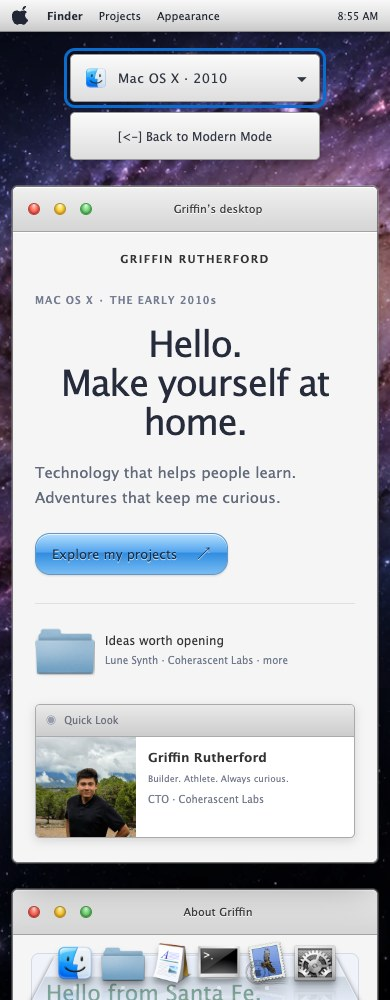
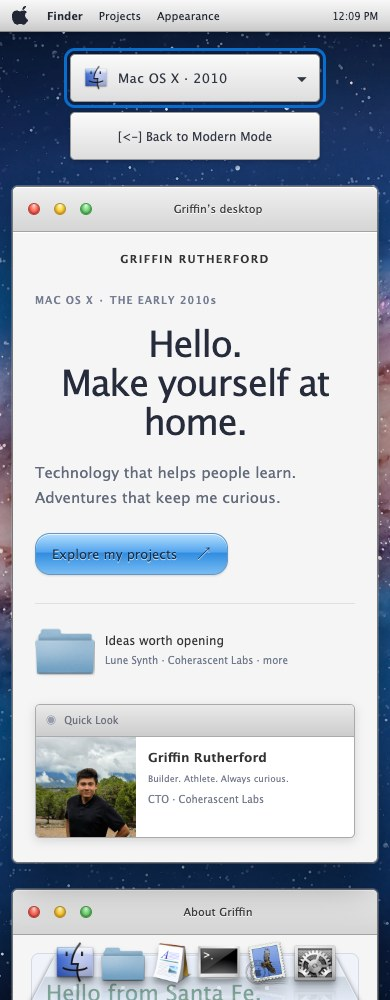
Replace generated Mac artwork with authentic Apple assets

Changed region(s): [[0.0, 0.0, 1.0, 1.0], [0.1231, 0.93, 0.2462, 0.992]]

diff --git a/images/macos-review/gallery.html b/images/macos-review/gallery.html
@@ -1,1 +1,1 @@
-<!doctype html><html lang="en"><meta charset="utf-8"><meta name="viewport" content="width=device-width,initial-scale=1"><title>Mac themes · visual review</title><style>body{margin:0;padding:32px;font:15px/1.6 system-ui;background:#edf0f7;color:#293247}h1{font-size:28px}main{display:grid;grid-template-columns:repeat(auto-fit,minmax(290px,1fr));gap:24px}article{background:white;border:1px solid #d4dbea;border-radius:12px;padding:16px}img{width:100%;height:310px;object-fit:contain;background:#e6eaf2}h2{font-size:15px}small{color:#556176}a{color:#1267b4}</style><h1>Two Mac desktops · 28 reviewed views</h1><p>Desktop, phone, tablet, menus, Finder views, Dock magnification, and short landscape. Scores are subjective design assessments. Open any screenshot for its full resolution.</p><p><a href="../../90s.html?theme=macos">macOS Modern</a> · <a href="../../90s.html?theme=mac2010">Mac OS X · 2010</a></p><main><article><a href="mac2010-desktop-1440.jpg" target="_blank"><img src="mac2010-desktop-1440.jpg" loading="lazy" alt="mac2010 desktop 1440"></a><h2>mac2010 desktop 1440</h2><p>Aesthetics 96/100 · Interpretability 96/100</p><small>Balanced desktop/tablet composition with Finder favorites, Quick Look portrait, and cohesive generated wallpaper.</small></article><article><a href="mac2010-desktop-320.jpg" target="_blank"><img src="mac2010-desktop-320.jpg" loading="lazy" alt="mac2010 desktop 320"></a><h2>mac2010 desktop 320</h2><p>Aesthetics 92/100 · Interpretability 94/100</p><small>Narrow phone: readable wrapped copy, three traffic lights, current portrait, and six Dock targets remain inside the viewport.</small></article><article><a href="mac2010-desktop-390.jpg" target="_blank"><img src="mac2010-desktop-390.jpg" loading="lazy" alt="mac2010 desktop 390"></a><h2>mac2010 desktop 390</h2><p>Aesthetics 94/100 · Interpretability 95/100</p><small>Phone: clean hierarchy, distinct era chrome, current portrait, and a compact Dock.</small></article><article><a href="mac2010-desktop-768.jpg" target="_blank"><img src="mac2010-desktop-768.jpg" loading="lazy" alt="mac2010 desktop 768"></a><h2>mac2010 desktop 768</h2><p>Aesthetics 96/100 · Interpretability 96/100</p><small>Balanced desktop/tablet composition with Finder favorites, Quick Look portrait, and cohesive generated wallpaper.</small></article><article><a href="mac2010-dock-hover.jpg" target="_blank"><img src="mac2010-dock-hover.jpg" loading="lazy" alt="mac2010 dock hover"></a><h2>mac2010 dock hover</h2><p>Aesthetics 96/100 · Interpretability 96/100</p><small>Clear hover label and controlled neighboring magnification; reflective shelf distinguishes the classic era.</small></article><article><a href="mac2010-landscape.jpg" target="_blank"><img src="mac2010-landscape.jpg" loading="lazy" alt="mac2010 landscape"></a><h2>mac2010 landscape</h2><p>Aesthetics 92/100 · Interpretability 94/100</p><small>Menu and Dock fit a short landscape viewport; primary controls remain reachable.</small></article><article><a href="mac2010-menu-1440.jpg" target="_blank"><img src="mac2010-menu-1440.jpg" loading="lazy" alt="mac2010 menu 1440"></a><h2>mac2010 menu 1440</h2><p>Aesthetics 95/100 · Interpretability 97/100</p><small>Readable native-style menu, clear actions, current headshot, and no clipping.</small></article><article><a href="mac2010-menu-390.jpg" target="_blank"><img src="mac2010-menu-390.jpg" loading="lazy" alt="mac2010 menu 390"></a><h2>mac2010 menu 390</h2><p>Aesthetics 95/100 · Interpretability 97/100</p><small>Readable native-style menu, clear actions, current headshot, and no clipping.</small></article><article><a href="mac2010-projects-1440.jpg" target="_blank"><img src="mac2010-projects-1440.jpg" loading="lazy" alt="mac2010 projects 1440"></a><h2>mac2010 projects 1440</h2><p>Aesthetics 94/100 · Interpretability 97/100</p><small>Legible Finder-style file rows, era-specific icons, search, and item count.</small></article><article><a href="mac2010-projects-390.jpg" target="_blank"><img src="mac2010-projects-390.jpg" loading="lazy" alt="mac2010 projects 390"></a><h2>mac2010 projects 390</h2><p>Aesthetics 94/100 · Interpretability 97/100</p><small>Legible Finder-style file rows, era-specific icons, search, and item count.</small></article><article><a href="mac2010-resume-1440.jpg" target="_blank"><img src="mac2010-resume-1440.jpg" loading="lazy" alt="mac2010 resume 1440"></a><h2>mac2010 resume 1440</h2><p>Aesthetics 94/100 · Interpretability 96/100</p><small>Shared experience records are readable with contemporary cards or classic alternating list rows.</small></article><article><a href="mac2010-resume-390.jpg" target="_blank"><img src="mac2010-resume-390.jpg" loading="lazy" alt="mac2010 resume 390"></a><h2>mac2010 resume 390</h2><p>Aesthetics 94/100 · Interpretability 96/100</p><small>Shared experience records are readable with contemporary cards or classic alternating list rows.</small></article><article><a href="mac2010-skills-1440.jpg" target="_blank"><img src="mac2010-skills-1440.jpg" loading="lazy" alt="mac2010 skills 1440"></a><h2>mac2010 skills 1440</h2><p>Aesthetics 93/100 · Interpretability 95/100</p><small>Readable skill labels, matching blue progress bars, consistent window controls, and Dock navigation.</small></article><article><a href="mac2010-skills-390.jpg" target="_blank"><img src="mac2010-skills-390.jpg" loading="lazy" alt="mac2010 skills 390"></a><h2>mac2010 skills 390</h2><p>Aesthetics 93/100 · Interpretability 95/100</p><small>Readable skill labels, matching blue progress bars, consistent window controls, and Dock navigation.</small></article><article><a href="macos-desktop-1440.jpg" target="_blank"><img src="macos-desktop-1440.jpg" loading="lazy" alt="macos desktop 1440"></a><h2>macos desktop 1440</h2><p>Aesthetics 96/100 · Interpretability 96/100</p><small>Balanced desktop/tablet composition with Finder favorites, Quick Look portrait, and cohesive generated wallpaper.</small></article><article><a href="macos-desktop-320.jpg" target="_blank"><img src="macos-desktop-320.jpg" loading="lazy" alt="macos desktop 320"></a><h2>macos desktop 320</h2><p>Aesthetics 92/100 · Interpretability 94/100</p><small>Narrow phone: readable wrapped copy, three traffic lights, current portrait, and six Dock targets remain inside the viewport.</small></article><article><a href="macos-desktop-390.jpg" target="_blank"><img src="macos-desktop-390.jpg" loading="lazy" alt="macos desktop 390"></a><h2>macos desktop 390</h2><p>Aesthetics 94/100 · Interpretability 95/100</p><small>Phone: clean hierarchy, distinct era chrome, current portrait, and a compact Dock.</small></article><article><a href="macos-desktop-768.jpg" target="_blank"><img src="macos-desktop-768.jpg" loading="lazy" alt="macos desktop 768"></a><h2>macos desktop 768</h2><p>Aesthetics 96/100 · Interpretability 96/100</p><small>Balanced desktop/tablet composition with Finder favorites, Quick Look portrait, and cohesive generated wallpaper.</small></article><article><a href="macos-dock-hover.jpg" target="_blank"><img src="macos-dock-hover.jpg" loading="lazy" alt="macos dock hover"></a><h2>macos dock hover</h2><p>Aesthetics 96/100 · Interpretability 96/100</p><small>Clear hover label and controlled neighboring magnification; reflective shelf distinguishes the classic era.</small></article><article><a href="macos-landscape.jpg" target="_blank"><img src="macos-landscape.jpg" loading="lazy" alt="macos landscape"></a><h2>macos landscape</h2><p>Aesthetics 92/100 · Interpretability 94/100</p><small>Menu and Dock fit a short landscape viewport; primary controls remain reachable.</small></article><article><a href="macos-menu-1440.jpg" target="_blank"><img src="macos-menu-1440.jpg" loading="lazy" alt="macos menu 1440"></a><h2>macos menu 1440</h2><p>Aesthetics 95/100 · Interpretability 97/100</p><small>Readable native-style menu, clear actions, current headshot, and no clipping.</small></article><article><a href="macos-menu-390.jpg" target="_blank"><img src="macos-menu-390.jpg" loading="lazy" alt="macos menu 390"></a><h2>macos menu 390</h2><p>Aesthetics 95/100 · Interpretability 97/100</p><small>Readable native-style menu, clear actions, current headshot, and no clipping.</small></article><article><a href="macos-projects-1440.jpg" target="_blank"><img src="macos-projects-1440.jpg" loading="lazy" alt="macos projects 1440"></a><h2>macos projects 1440</h2><p>Aesthetics 94/100 · Interpretability 97/100</p><small>Legible Finder-style file rows, era-specific icons, search, and item count.</small></article><article><a href="macos-projects-390.jpg" target="_blank"><img src="macos-projects-390.jpg" loading="lazy" alt="macos projects 390"></a><h2>macos projects 390</h2><p>Aesthetics 94/100 · Interpretability 97/100</p><small>Legible Finder-style file rows, era-specific icons, search, and item count.</small></article><article><a href="macos-resume-1440.jpg" target="_blank"><img src="macos-resume-1440.jpg" loading="lazy" alt="macos resume 1440"></a><h2>macos resume 1440</h2><p>Aesthetics 94/100 · Interpretability 96/100</p><small>Shared experience records are readable with contemporary cards or classic alternating list rows.</small></article><article><a href="macos-resume-390.jpg" target="_blank"><img src="macos-resume-390.jpg" loading="lazy" alt="macos resume 390"></a><h2>macos resume 390</h2><p>Aesthetics 94/100 · Interpretability 96/100</p><small>Shared experience records are readable with contemporary cards or classic alternating list rows.</small></article><article><a href="macos-skills-1440.jpg" target="_blank"><img src="macos-skills-1440.jpg" loading="lazy" alt="macos skills 1440"></a><h2>macos skills 1440</h2><p>Aesthetics 93/100 · Interpretability 95/100</p><small>Readable skill labels, matching blue progress bars, consistent window controls, and Dock navigation.</small></article><article><a href="macos-skills-390.jpg" target="_blank"><img src="macos-skills-390.jpg" loading="lazy" alt="macos skills 390"></a><h2>macos skills 390</h2><p>Aesthetics 93/100 · Interpretability 95/100</p><small>Readable skill labels, matching blue progress bars, consistent window controls, and Dock navigation.</small></article></main></html>
+<!doctype html><html lang="en"><meta charset="utf-8"><meta name="viewport" content="width=device-width,initial-scale=1"><title>Mac themes · visual review</title><style>body{margin:0;padding:32px;font:15px/1.6 system-ui;background:#edf0f7;color:#293247}h1{font-size:28px}main{display:grid;grid-template-columns:repeat(auto-fit,minmax(290px,1fr));gap:24px}article{background:white;border:1px solid #d4dbea;border-radius:12px;padding:16px}img{width:100%;height:310px;object-fit:contain;background:#e6eaf2}h2{font-size:15px}small{color:#556176}a{color:#1267b4}</style><h1>Two Mac desktops · 28 reviewed views</h1><p>Refreshed October 6, 2026 with authentic Apple wallpapers and Finder icons. Desktop, phone, tablet, menus, Finder views, Dock magnification, and short landscape. Scores are subjective design assessments. Open any screenshot for its full resolution.</p><p><a href="../../90s.html?theme=macos">macOS Modern</a> · <a href="../../90s.html?theme=mac2010">Mac OS X · 2010</a></p><main><article><a href="mac2010-desktop-1440.jpg" target="_blank"><img src="mac2010-desktop-1440.jpg" loading="lazy" alt="mac2010 desktop 1440"></a><h2>mac2010 desktop 1440</h2><p>Aesthetics 96/100 · Interpretability 96/100</p><small>Balanced desktop/tablet composition with Finder favorites, Quick Look portrait, and authentic Apple wallpaper.</small></article><article><a href="mac2010-desktop-320.jpg" target="_blank"><img src="mac2010-desktop-320.jpg" loading="lazy" alt="mac2010 desktop 320"></a><h2>mac2010 desktop 320</h2><p>Aesthetics 92/100 · Interpretability 94/100</p><small>Narrow phone: readable wrapped copy, three traffic lights, current portrait, and six Dock targets remain inside the viewport.</small></article><article><a href="mac2010-desktop-390.jpg" target="_blank"><img src="mac2010-desktop-390.jpg" loading="lazy" alt="mac2010 desktop 390"></a><h2>mac2010 desktop 390</h2><p>Aesthetics 94/100 · Interpretability 95/100</p><small>Phone: clean hierarchy, distinct era chrome, current portrait, and a compact Dock.</small></article><article><a href="mac2010-desktop-768.jpg" target="_blank"><img src="mac2010-desktop-768.jpg" loading="lazy" alt="mac2010 desktop 768"></a><h2>mac2010 desktop 768</h2><p>Aesthetics 96/100 · Interpretability 96/100</p><small>Balanced desktop/tablet composition with Finder favorites, Quick Look portrait, and authentic Apple wallpaper.</small></article><article><a href="mac2010-dock-hover.jpg" target="_blank"><img src="mac2010-dock-hover.jpg" loading="lazy" alt="mac2010 dock hover"></a><h2>mac2010 dock hover</h2><p>Aesthetics 96/100 · Interpretability 96/100</p><small>Clear hover label and controlled neighboring magnification; reflective shelf distinguishes the classic era.</small></article><article><a href="mac2010-landscape.jpg" target="_blank"><img src="mac2010-landscape.jpg" loading="lazy" alt="mac2010 landscape"></a><h2>mac2010 landscape</h2><p>Aesthetics 92/100 · Interpretability 94/100</p><small>Menu and Dock fit a short landscape viewport; primary controls remain reachable.</small></article><article><a href="mac2010-menu-1440.jpg" target="_blank"><img src="mac2010-menu-1440.jpg" loading="lazy" alt="mac2010 menu 1440"></a><h2>mac2010 menu 1440</h2><p>Aesthetics 95/100 · Interpretability 97/100</p><small>Readable native-style menu, clear actions, current headshot, and no clipping.</small></article><article><a href="mac2010-menu-390.jpg" target="_blank"><img src="mac2010-menu-390.jpg" loading="lazy" alt="mac2010 menu 390"></a><h2>mac2010 menu 390</h2><p>Aesthetics 95/100 · Interpretability 97/100</p><small>Readable native-style menu, clear actions, current headshot, and no clipping.</small></article><article><a href="mac2010-projects-1440.jpg" target="_blank"><img src="mac2010-projects-1440.jpg" loading="lazy" alt="mac2010 projects 1440"></a><h2>mac2010 projects 1440</h2><p>Aesthetics 94/100 · Interpretability 97/100</p><small>Legible Finder-style file rows, era-specific icons, search, and item count.</small></article><article><a href="mac2010-projects-390.jpg" target="_blank"><img src="mac2010-projects-390.jpg" loading="lazy" alt="mac2010 projects 390"></a><h2>mac2010 projects 390</h2><p>Aesthetics 94/100 · Interpretability 97/100</p><small>Legible Finder-style file rows, era-specific icons, search, and item count.</small></article><article><a href="mac2010-resume-1440.jpg" target="_blank"><img src="mac2010-resume-1440.jpg" loading="lazy" alt="mac2010 resume 1440"></a><h2>mac2010 resume 1440</h2><p>Aesthetics 94/100 · Interpretability 96/100</p><small>Shared experience records are readable with contemporary cards or classic alternating list rows.</small></article><article><a href="mac2010-resume-390.jpg" target="_blank"><img src="mac2010-resume-390.jpg" loading="lazy" alt="mac2010 resume 390"></a><h2>mac2010 resume 390</h2><p>Aesthetics 94/100 · Interpretability 96/100</p><small>Shared experience records are readable with contemporary cards or classic alternating list rows.</small></article><article><a href="mac2010-skills-1440.jpg" target="_blank"><img src="mac2010-skills-1440.jpg" loading="lazy" alt="mac2010 skills 1440"></a><h2>mac2010 skills 1440</h2><p>Aesthetics 93/100 · Interpretability 95/100</p><small>Readable skill labels, matching blue progress bars, consistent window controls, and Dock navigation.</small></article><article><a href="mac2010-skills-390.jpg" target="_blank"><img src="mac2010-skills-390.jpg" loading="lazy" alt="mac2010 skills 390"></a><h2>mac2010 skills 390</h2><p>Aesthetics 93/100 · Interpretability 95/100</p><small>Readable skill labels, matching blue progress bars, consistent window controls, and Dock navigation.</small></article><article><a href="macos-desktop-1440.jpg" target="_blank"><img src="macos-desktop-1440.jpg" loading="lazy" alt="macos desktop 1440"></a><h2>macos desktop 1440</h2><p>Aesthetics 96/100 · Interpretability 96/100</p><small>Balanced desktop/tablet composition with Finder favorites, Quick Look portrait, and authentic Apple wallpaper.</small></article><article><a href="macos-desktop-320.jpg" target="_blank"><img src="macos-desktop-320.jpg" loading="lazy" alt="macos desktop 320"></a><h2>macos desktop 320</h2><p>Aesthetics 92/100 · Interpretability 94/100</p><small>Narrow phone: readable wrapped copy, three traffic lights, current portrait, and six Dock targets remain inside the viewport.</small></article><article><a href="macos-desktop-390.jpg" target="_blank"><img src="macos-desktop-390.jpg" loading="lazy" alt="macos desktop 390"></a><h2>macos desktop 390</h2><p>Aesthetics 94/100 · Interpretability 95/100</p><small>Phone: clean hierarchy, distinct era chrome, current portrait, and a compact Dock.</small></article><article><a href="macos-desktop-768.jpg" target="_blank"><img src="macos-desktop-768.jpg" loading="lazy" alt="macos desktop 768"></a><h2>macos desktop 768</h2><p>Aesthetics 96/100 · Interpretability 96/100</p><small>Balanced desktop/tablet composition with Finder favorites, Quick Look portrait, and authentic Apple wallpaper.</small></article><article><a href="macos-dock-hover.jpg" target="_blank"><img src="macos-dock-hover.jpg" loading="lazy" alt="macos dock hover"></a><h2>macos dock hover</h2><p>Aesthetics 96/100 · Interpretability 96/100</p><small>Clear hover label and controlled neighboring magnification; reflective shelf distinguishes the classic era.</small></article><article><a href="macos-landscape.jpg" target="_blank"><img src="macos-landscape.jpg" loading="lazy" alt="macos landscape"></a><h2>macos landscape</h2><p>Aesthetics 92/100 · Interpretability 94/100</p><small>Menu and Dock fit a short landscape viewport; primary controls remain reachable.</small></article><article><a href="macos-menu-1440.jpg" target="_blank"><img src="macos-menu-1440.jpg" loading="lazy" alt="macos menu 1440"></a><h2>macos menu 1440</h2><p>Aesthetics 95/100 · Interpretability 97/100</p><small>Readable native-style menu, clear actions, current headshot, and no clipping.</small></article><article><a href="macos-menu-390.jpg" target="_blank"><img src="macos-menu-390.jpg" loading="lazy" alt="macos menu 390"></a><h2>macos menu 390</h2><p>Aesthetics 95/100 · Interpretability 97/100</p><small>Readable native-style menu, clear actions, current headshot, and no clipping.</small></article><article><a href="macos-projects-1440.jpg" target="_blank"><img src="macos-projects-1440.jpg" loading="lazy" alt="macos projects 1440"></a><h2>macos projects 1440</h2><p>Aesthetics 94/100 · Interpretability 97/100</p><small>Legible Finder-style file rows, era-specific icons, search, and item count.</small></article><article><a href="macos-projects-390.jpg" target="_blank"><img src="macos-projects-390.jpg" loading="lazy" alt="macos projects 390"></a><h2>macos projects 390</h2><p>Aesthetics 94/100 · Interpretability 97/100</p><small>Legible Finder-style file rows, era-specific icons, search, and item count.</small></article><article><a href="macos-resume-1440.jpg" target="_blank"><img src="macos-resume-1440.jpg" loading="lazy" alt="macos resume 1440"></a><h2>macos resume 1440</h2><p>Aesthetics 94/100 · Interpretability 96/100</p><small>Shared experience records are readable with contemporary cards or classic alternating list rows.</small></article><article><a href="macos-resume-390.jpg" target="_blank"><img src="macos-resume-390.jpg" loading="lazy" alt="macos resume 390"></a><h2>macos resume 390</h2><p>Aesthetics 94/100 · Interpretability 96/100</p><small>Shared experience records are readable with contemporary cards or classic alternating list rows.</small></article><article><a href="macos-skills-1440.jpg" target="_blank"><img src="macos-skills-1440.jpg" loading="lazy" alt="macos skills 1440"></a><h2>macos skills 1440</h2><p>Aesthetics 93/100 · Interpretability 95/100</p><small>Readable skill labels, matching blue progress bars, consistent window controls, and Dock navigation.</small></article><article><a href="macos-skills-390.jpg" target="_blank"><img src="macos-skills-390.jpg" loading="lazy" alt="macos skills 390"></a><h2>macos skills 390</h2><p>Aesthetics 93/100 · Interpretability 95/100</p><small>Readable skill labels, matching blue progress bars, consistent window controls, and Dock navigation.</small></article></main></html>

diff --git a/90s.html b/90s.html
@@ -1441,7 +1441,7 @@
     <link rel="stylesheet" href="css/windows-2100.css?v=3">
     <link rel="stylesheet" href="css/retro-experience.css?v=1">
     <link rel="stylesheet" href="css/hypercube-art.css?v=1">
-    <link rel="stylesheet" href="css/macos.css?v=1">
+    <link rel="stylesheet" href="css/macos.css?v=2">
     <style>
         /* Keep the two page controls the same size in every retro theme. */
         body.nineties-mode .theme-controls > :is(.theme-toggle-btn, .nineties-toggle-btn) {
@@ -1497,8 +1497,8 @@
                     <button type="button" class="theme-option" role="option" data-theme="matrix" aria-selected="false" tabindex="-1"><img src="images/theme-icons/matrix.svg?v=2" alt="" width="30" height="30"><span>Matrix<small>Follow the green code</small></span><span class="theme-option-check" aria-hidden="true">✓</span></button>
                     <button type="button" class="theme-option" role="option" data-theme="hypercube" aria-selected="false" tabindex="-1"><img src="images/hypercube/art/emblem.png" alt="" width="30" height="30"><span>Hypercube<small>Neon geometry beyond 3D</small></span><span class="theme-option-check" aria-hidden="true">✓</span></button>
                     <button type="button" class="theme-option" role="option" data-theme="win2100" aria-selected="false" tabindex="-1"><img src="images/win2100/art/windows-logo.png" alt="" width="30" height="30"><span>Windows 2100<small>An imagined spatial desktop</small></span><span class="theme-option-check" aria-hidden="true">✓</span></button>
-                    <button type="button" class="theme-option" role="option" data-theme="macos" aria-selected="false" tabindex="-1"><img src="images/macos/art/modern-finder.png" alt="" width="30" height="30"><span>macOS Modern<small>Color, clarity &amp; liquid glass</small></span><span class="theme-option-check" aria-hidden="true">✓</span></button>
-                    <button type="button" class="theme-option" role="option" data-theme="mac2010" aria-selected="false" tabindex="-1"><img src="images/macos/art/classic-finder.png" alt="" width="30" height="30"><span>Mac OS X · 2010<small>Aqua, starlight &amp; a glass shelf</small></span><span class="theme-option-check" aria-hidden="true">✓</span></button>
+                    <button type="button" class="theme-option" role="option" data-theme="macos" aria-selected="false" tabindex="-1"><img src="images/macos/modern/finder.png" alt="" width="30" height="30"><span>macOS Modern<small>Color, clarity &amp; liquid glass</small></span><span class="theme-option-check" aria-hidden="true">✓</span></button>
+                    <button type="button" class="theme-option" role="option" data-theme="mac2010" aria-selected="false" tabindex="-1"><img src="images/macos/classic/finder.png" alt="" width="30" height="30"><span>Mac OS X · 2010<small>Aqua, starlight &amp; a glass shelf</small></span><span class="theme-option-check" aria-hidden="true">✓</span></button>
                 </div>
             </div>
             <button onclick="window.location.href='index.html'" class="nineties-toggle-btn">
@@ -1520,7 +1520,7 @@
                     <div><span class="vista-eyebrow">PERSONAL DESKTOP · EST. 1996 / REMIXED 2007</span><h2>Connected by curiosity.</h2><p>Building things that help people learn.<br>Finding inspiration beyond the screen.</p><a href="#nineties-projects" class="vista-explore">Open my projects <span aria-hidden="true">↗</span></a></div>
                 </div>
                 <div class="mac-welcome mac-only">
-                    <aside class="mac-sidebar" aria-label="Finder favorites"><small>Favorites</small><a href="#vista-welcome-center" class="mac-sidebar-home"><img data-mac-icon="finder" src="images/macos/art/modern-finder.png" alt="" width="22" height="22">Griffin's desktop</a><a href="#nineties-projects"><img data-mac-icon="folder" src="images/macos/modern/folder.png" alt="" width="22" height="22">Projects</a><a href="#nineties-resume"><img data-mac-icon="documents" src="images/macos/modern/documents.png" alt="" width="22" height="22">Experience</a><a href="#nineties-about"><img data-mac-icon="people" src="images/macos/modern/people.png" alt="" width="22" height="22">About me</a><small>Location</small><span>Santa Fe, New Mexico</span></aside>
+                    <aside class="mac-sidebar" aria-label="Finder favorites"><small>Favorites</small><a href="#vista-welcome-center" class="mac-sidebar-home"><img data-mac-icon="finder" src="images/macos/modern/finder.png" alt="" width="22" height="22">Griffin's desktop</a><a href="#nineties-projects"><img data-mac-icon="folder" src="images/macos/modern/folder.png" alt="" width="22" height="22">Projects</a><a href="#nineties-resume"><img data-mac-icon="documents" src="images/macos/modern/documents.png" alt="" width="22" height="22">Experience</a><a href="#nineties-about"><img data-mac-icon="people" src="images/macos/modern/people.png" alt="" width="22" height="22">About me</a><small>Location</small><span>Santa Fe, New Mexico</span></aside>
                     <div class="mac-welcome-content"><span class="mac-eyebrow" id="mac-era-label">A PERSONAL WORKSPACE</span><h2 id="mac-welcome-title">A desktop for<br>curious minds.</h2><p>Technology that helps people learn.<br>Adventures that keep me curious.</p><a href="#nineties-projects" class="mac-primary">Explore my projects <span aria-hidden="true">↗</span></a><div class="mac-file-preview"><img data-mac-icon="folder" src="images/macos/modern/folder.png" alt="" width="60" height="60"><span><strong>Ideas worth opening</strong><small>Lune Synth · Coherascent Labs · more</small></span></div></div>
                     <figure class="mac-quick-look"><div class="mac-quick-look-title"><span aria-hidden="true">◉</span> Quick Look</div><img src="images/headshot-sep-26.jpg" alt="Griffin outdoors in Santa Fe" width="220" height="220" class="mac-headshot"><figcaption><strong>Griffin Rutherford</strong><span>Builder. Athlete. Always curious.</span><small>CTO · Coherascent Labs</small></figcaption></figure>
                 </div>
@@ -2005,10 +2005,10 @@
         </div>
         <a href="index.html" class="vista-menu-home">Return to the modern site →</a>
     </nav>
-    <script src="js/vista-aero.js?v=7" defer></script>
+    <script src="js/vista-aero.js?v=8" defer></script>
 
     <nav class="mac-dock mac-only" aria-label="Desktop Dock">
-        <a href="#vista-welcome-center" data-mac-dock="finder"><img data-mac-icon="finder" src="images/macos/art/modern-finder.png" alt="" width="64" height="64"><span>Finder</span></a>
+        <a href="#vista-welcome-center" data-mac-dock="finder"><img data-mac-icon="finder" src="images/macos/modern/finder.png" alt="" width="64" height="64"><span>Finder</span></a>
         <a href="#nineties-projects" data-mac-dock="projects"><img data-mac-icon="folder" src="images/macos/modern/folder.png" alt="" width="64" height="64"><span>Projects</span></a>
         <a href="#nineties-resume" data-mac-dock="experience"><img data-mac-icon="documents" src="images/macos/modern/documents.png" alt="" width="64" height="64"><span>Experience</span></a>
         <a href="#nineties-skills" data-mac-dock="skills"><img data-mac-icon="control-panel" src="images/macos/modern/control-panel.png" alt="" width="64" height="64"><span>Skills</span></a>
@@ -2022,7 +2022,7 @@
     <script src="js/hypercube-core.js?v=1" defer></script>
     <script src="js/hypercube.js?v=2" defer></script>
     <script src="js/windows-2100.js?v=2" defer></script>
-    <script src="js/macos.js?v=1" defer></script>
+    <script src="js/macos.js?v=2" defer></script>
 
     <!-- Kirby Super Star sound effects -->
     <script src="js/kirby-sfx.js"></script>

diff --git a/css/macos.css b/css/macos.css
@@ -1,7 +1,7 @@
 /* Two Mac desktops: contemporary translucent glass and 2010-era silver Aqua. */
 .mac-only { display: none; }
 .mac-only[hidden] { display: none !important; }
-body:is(.macos-theme,.mac2010-theme) { --mac-ink:#252835; --mac-muted:#656b7b; --mac-blue:#087eff; --mac-line:#00000016; background:#687fd0 url('../images/macos/art/modern-wallpaper.webp') center/cover fixed no-repeat; color:var(--mac-ink); font-family:-apple-system,BlinkMacSystemFont,'Helvetica Neue',sans-serif !important; cursor:default; }
+body:is(.macos-theme,.mac2010-theme) { --mac-ink:#252835; --mac-muted:#656b7b; --mac-blue:#087eff; --mac-line:#00000016; background:#687fd0 url('../images/macos/modern/wallpaper.webp') center/cover fixed no-repeat; color:var(--mac-ink); font-family:-apple-system,BlinkMacSystemFont,'Helvetica Neue',sans-serif !important; cursor:default; }
 body:is(.macos-theme,.mac2010-theme) :where(*) { font-family:-apple-system,BlinkMacSystemFont,'Helvetica Neue',sans-serif !important; }
 body:is(.macos-theme,.mac2010-theme) .mac-only { display:flex; }
 body:is(.macos-theme,.mac2010-theme) :is(.vista-taskbar,.vista-start-menu,.vista-hero,.visitor-counter,.nineties-marquee,.nineties-nav-table,.nineties-subtitle,.badges-section,.webring,.mac-window-close:not(button)) { display:none !important; }
@@ -95,7 +95,7 @@ body:is(.macos-theme,.mac2010-theme) :is(.guestbook-entries,.guestbook-form) { b
 body:is(.macos-theme,.mac2010-theme) .guestbook-submit { background:#087eff; border:1px solid #076bd6; border-radius:6px; color:#fff; text-shadow:none; }
 body:is(.macos-theme,.mac2010-theme) .guestbook-submit:hover { background:#066edc; }
 body:is(.macos-theme,.mac2010-theme) .experience-collection { --exp-surface:#ffffffdd; --exp-border:#dce1ec; --exp-text:#343c4e; --exp-muted:#656e80; --exp-accent:#1267b4; --exp-chip:#eef2f8; }
-body.mac2010-theme { background:#101424 url('../images/macos/art/classic-wallpaper.webp') center/cover fixed no-repeat; --mac-ink:#343434; --mac-muted:#666; --mac-blue:#177ada; }
+body.mac2010-theme { background:#101424 url('../images/macos/classic/wallpaper.webp') center/cover fixed no-repeat; --mac-ink:#343434; --mac-muted:#666; --mac-blue:#177ada; }
 body.mac2010-theme :where(*) { font-family:'Lucida Grande','Lucida Sans Unicode',Helvetica,sans-serif !important; }
 body.mac2010-theme .mac-menubar { background:linear-gradient(#f8f8f8,#ddd 65%,#c9c9c9); border-bottom:1px solid #888; box-shadow:0 1px 5px #0004; backdrop-filter:none; }
 body.mac2010-theme :is(.nineties-header,.nineties-section,.guestbook) { background:#f5f5f5; border:1px solid #777; border-radius:6px; box-shadow:0 18px 45px #0007,0 0 0 1px #fff4; backdrop-filter:none; }

diff --git a/js/vista-aero.js b/js/vista-aero.js
@@ -75,7 +75,7 @@
         desktopImages.forEach(({image, source}) => {
             const match = source.match(/images\/vista\/(computer|network|folder|people|documents|control-panel|application|pictures|mail)\.ico$/);
             image.src = match && macEra ? `images/macos/${macEra}/${match[1]}.png` : theme && match ? `images/${theme}/${theme === 'win2100' ? 'art/' : ''}${match[1]}.${extensions[theme]}` : source;
-            if (image.classList.contains('vista-start-orb') && theme) image.src = macEra ? `images/macos/art/${macEra}-finder.png` : `images/${theme}/${theme === 'win2100' ? 'art/' : ''}windows-logo.png`;
+            if (image.classList.contains('vista-start-orb') && theme) image.src = macEra ? `images/macos/${macEra}/finder.png` : `images/${theme}/${theme === 'win2100' ? 'art/' : ''}windows-logo.png`;
         });
         const headings = {
             xp: ['PERSONAL DESKTOP · WINDOWS XP / 2001', 'Your next adventure starts here.'],

diff --git a/js/macos.js b/js/macos.js
@@ -94,7 +94,7 @@
         const era = document.body.classList.contains('mac2010-theme') ? 'classic' : 'modern';
         document.querySelectorAll('[data-mac-icon]').forEach(image => {
             const key=image.dataset.macIcon;
-            image.src=key==='finder'?`images/macos/art/${era}-finder.png`:`images/macos/${era}/${key}.png`;
+            image.src=`images/macos/${era}/${key}.png`;
         });
         document.getElementById('mac-era-label').textContent = era === 'classic' ? 'MAC OS X · THE EARLY 2010s' : 'MACOS · A CONTEMPORARY DESKTOP';
         const heading = document.getElementById('mac-welcome-title');

diff --git a/README.md b/README.md
@@ -44,7 +44,7 @@ Run `node tests/retro-themes.browser.cjs` with the same browser environment to c
 
 Two Mac desktops are available in the same picker: [macOS Modern](https://griffinrutherford.com/90s.html?theme=macos) and [Mac OS X · 2010](https://griffinrutherford.com/90s.html?theme=mac2010). Modern uses a colorful glass-ribbon wallpaper, translucent menu bar, rounded windows, and a floating Dock. The early-2010s version uses a galaxy wallpaper, silver Aqua chrome, glossy traffic lights, and a reflective perspective Dock. Both have working menu shortcuts, project search, reversible window closing, a Show All Windows action, and Dock magnification that respects reduced motion. They use the current September headshot and the shared semantic experience records.
 
-Original wallpapers and Finder-style artwork were made with the built-in imagegen tool; the full prompt set and delivery paths are in [`images/macos/art/generation-manifest.json`](images/macos/art/generation-manifest.json). Sourced assets are served locally, including the classic Mail stamp, Terminal, folders, and other icons from [B00merang's Lion-era collection](https://github.com/B00merang-Artwork/Mac-OS-X-Lion), a native modern folder from [folderify](https://github.com/lgarron/folderify), and PNG exports of Apple's installed macOS system/application resources. [`images/macos/sources.json`](images/macos/sources.json) records each original source and rights note; the generated artwork remains alongside them. Design references include Apple's [modern desktop design](https://www.apple.com/newsroom/2020/06/apple-introduces-macos-big-sur-with-a-beautiful-new-design/) and [Lion introduction](https://www.apple.com/newsroom/2010/10/20Apple-Gives-Sneak-Peek-of-Mac-OS-X-Lion/).
+Both Mac themes use authentic Apple artwork. Modern uses the real Finder icon exported from Apple's installed Finder app and the macOS Tahoe light wallpaper extracted by Stephen Hackett; the classic theme uses the original Finder face and Lion's Andromeda wallpaper. Wallpapers come from the [512 Pixels archive](https://512pixels.net/projects/default-mac-wallpapers-in-5k/), with resizing and WebP compression for local delivery. The classic Mail stamp, Terminal, folders, and other icons come from [B00merang's Lion-era collection](https://github.com/B00merang-Artwork/Mac-OS-X-Lion); the modern folder comes from [folderify](https://github.com/lgarron/folderify), alongside PNG exports of Apple's installed system/application resources. [`images/macos/sources.json`](images/macos/sources.json) records each source and rights note. The generated Mac wallpapers, Finder illustrations, and generation manifest have been removed. Design references include Apple's [modern desktop design](https://www.apple.com/newsroom/2020/06/apple-introduces-macos-big-sur-with-a-beautiful-new-design/) and [Lion introduction](https://www.apple.com/newsroom/2010/10/20Apple-Gives-Sneak-Peek-of-Mac-OS-X-Lion/).
 
 Run `node tests/macos.browser.cjs` with the same browser environment to check both themes' local asset delivery, menu keyboard/focus/Escape behavior, headshot, Dock shortcuts, close/reopen/minimize/expand, Show All Windows, search, nine-theme cleanup, reduced motion, and 320–1440px/landscape layouts. Screenshots go to `/tmp/macos-review` or `SCREENSHOT_DIR`. The checked [visual gallery](images/macos-review/gallery.html) and [`tests/macos-review.json`](tests/macos-review.json) contain desktop, phone, menu, Finder, experience, skills, Dock-hover, and landscape evidence; scores are subjective design assessments.
 
